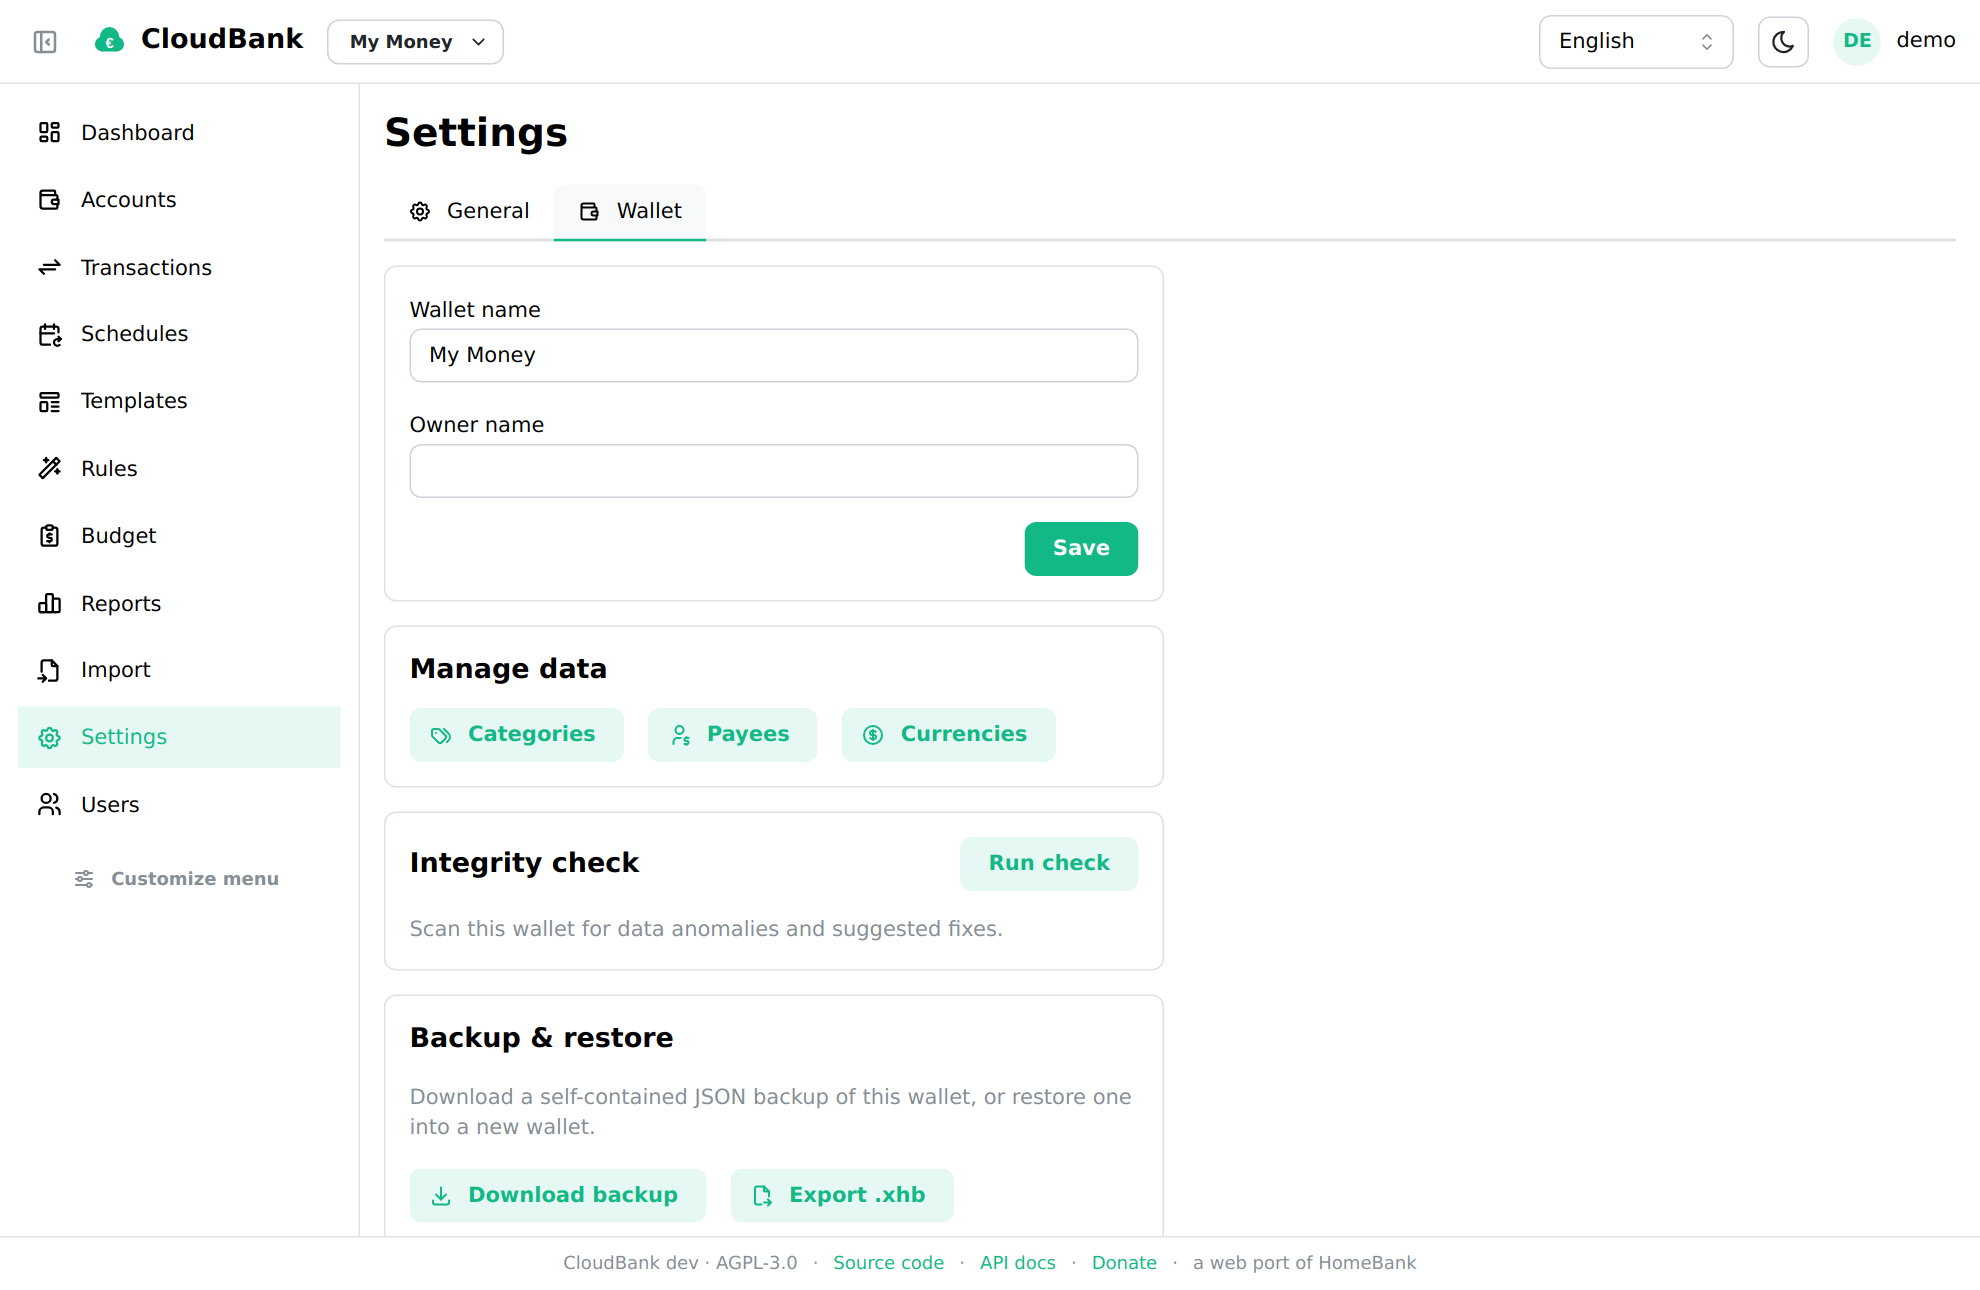
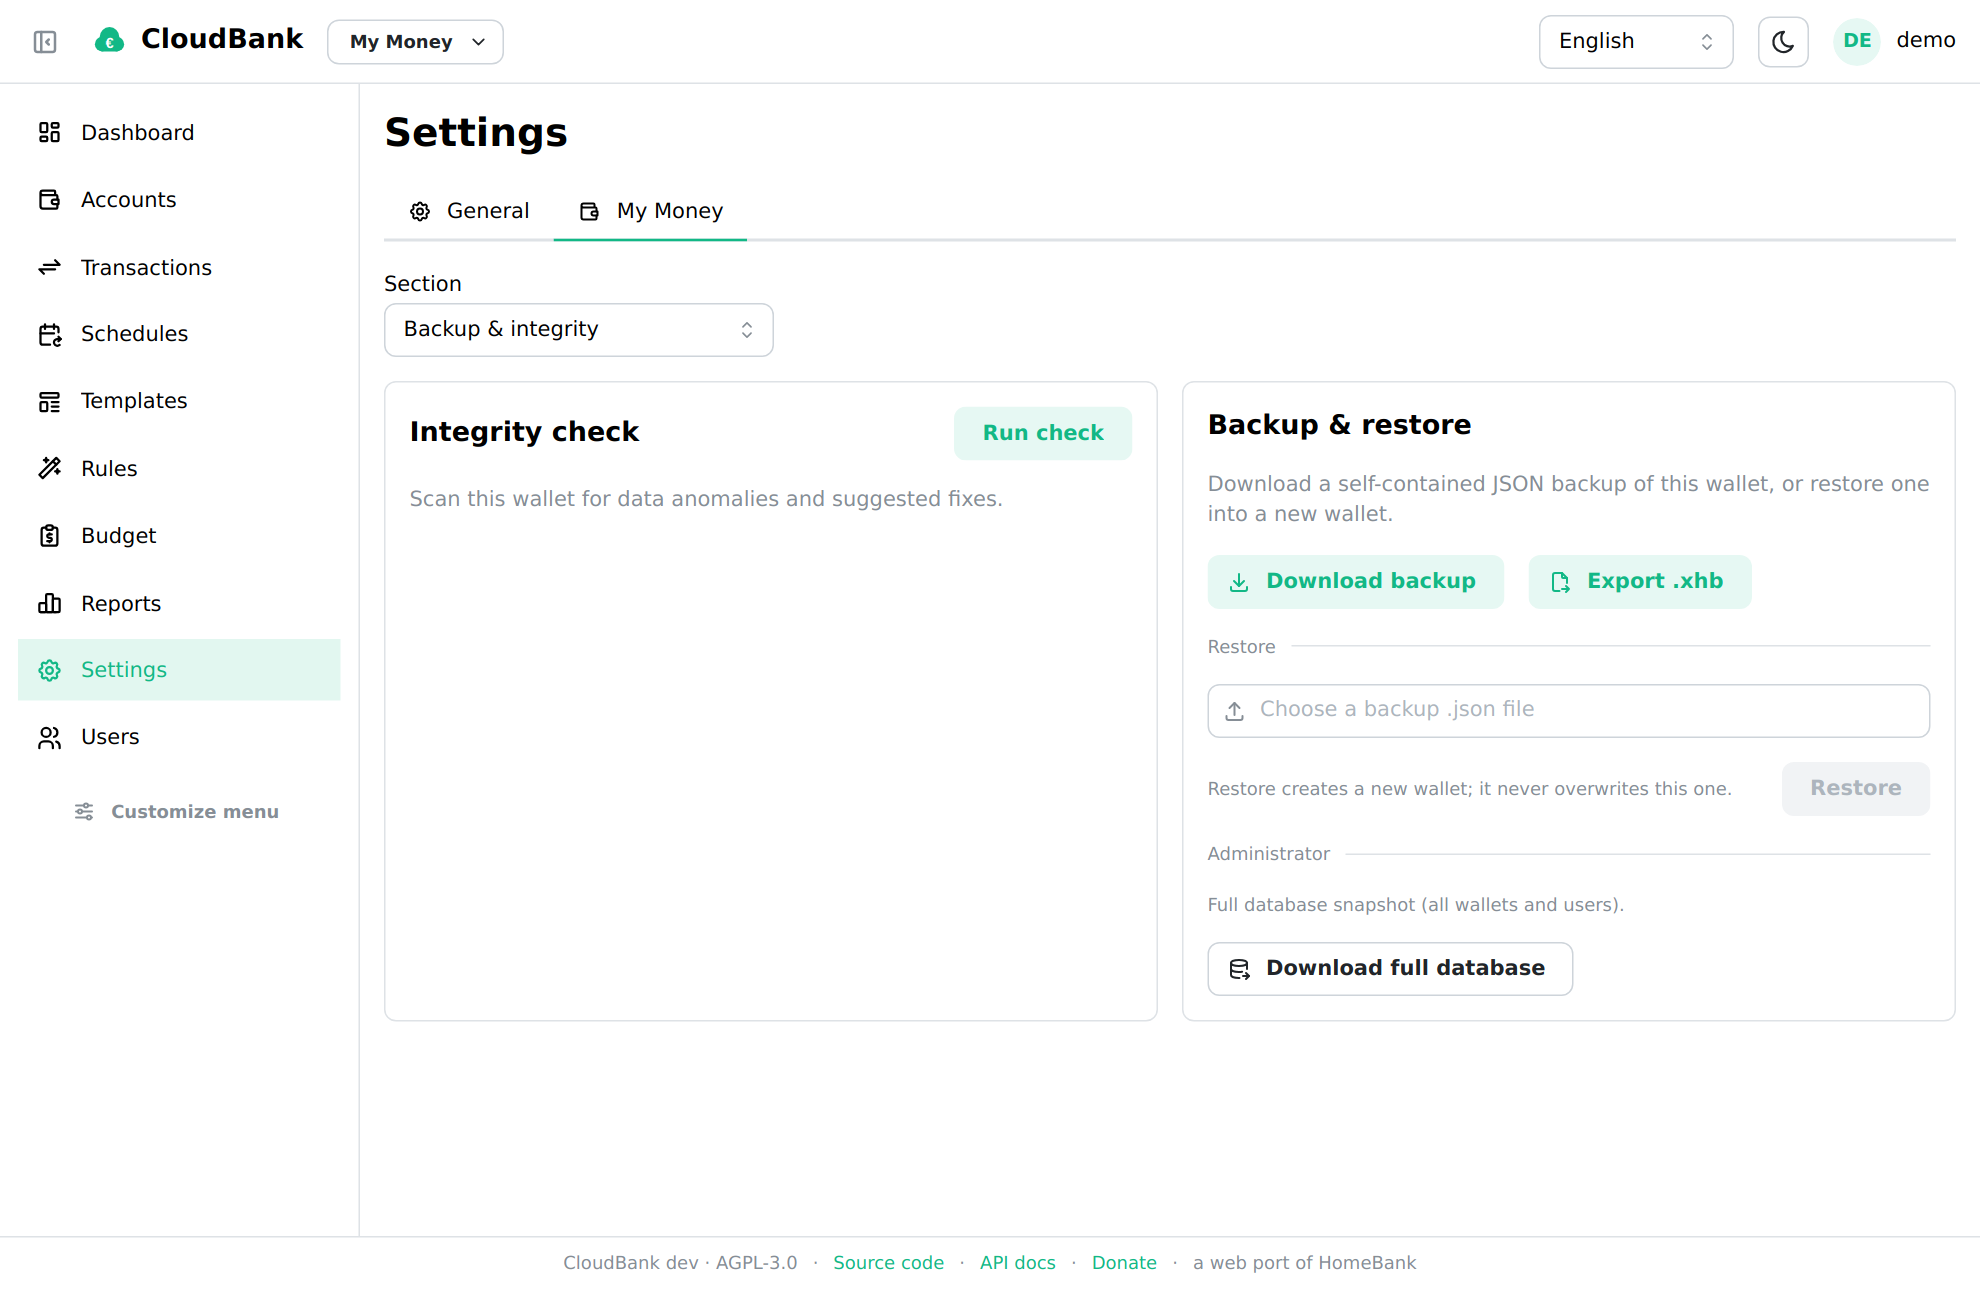
docs: refresh for Round 4 (dashboard parity, balances, scheduler, settings)
Update the documentation to cover the Round 4 changes:

- CHANGELOG: record the HomeBank-style dashboard (account + Add modal,
  percentage donut, Recurring/Future/Reminders), today + projected future
  account balances, the schedules amount column, the register hide-future
  toggle, the per-wallet "pre-register N months ahead" scheduler setting,
  double-click edit on every grid, the Import-into-Settings move and
  wallet-named grouped settings tab, full-width pages, and the first-click
  theme toggle / chart text / balance / quick-add fixes.
- README: mention the future-transactions toggle, schedule amount and
  pre-registration, today/future balances, and the HomeBank-style dashboard.
- migrate-from-homebank: Import now lives under Settings -> Wallet -> Import.
- Regenerate the docs/img screenshots from the current app, and fix the
  screenshot harness's export step to deep-link to the wallet backup section
  (the wallet settings tab is now titled after the wallet).

Claude-Session: https://claude.ai/code/session_01XDMnoUVHPcyZJ5bbJd9cxv

diff --git a/CHANGELOG.md b/CHANGELOG.md
@@ -13,6 +13,10 @@ and **onboarding/polish**.
 
 - **Customizable dashboard** — drag to reorder widgets, resize them (full / half /
   third width) and show or hide them; the layout persists per user.
+- **HomeBank-style dashboard** — pick an account and **Add** opens the full
+  transaction modal; the spending donut shows **percentages**; the income/expense
+  chart is wider; and the Upcoming panel is split into **Recurring / Future /
+  Reminders** tabs, each with post / skip / edit actions.
 - **Themes** — an **accent-colour picker** alongside light / dark / auto; the
   light/dark toggle now persists as a user setting (survives a refresh).
 - **Collapsible sidebar** (icon rail) and **pinnable, reorderable navigation**
@@ -25,21 +29,35 @@ and **onboarding/polish**.
   a zero line) with a selectable period.
 - **Smart amount entry** (HomeBank style) — `12.40` and `12,40` are both read as
   decimals; a per-user preference, on by default.
-- **Double-click a register row** to open it for editing.
+- **Double-click any grid row** — register, budget, currencies and the other
+  management grids — to open it for editing.
 - A **first-login tutorial** (coachmark tour) — dismissable, shown once per user,
   and restartable from Settings.
 - **Brand logo/icon** beside the app name and as the favicon.
 - A footer **donation** link (PayPal) and a **HomeBank** credit link.
-- **Quick-add** a transaction from the dashboard, with a richer Upcoming panel.
-- An **animated landing site** (Astro) published to GitHub Pages.
+- An **animated landing site** (Astro) published to GitHub Pages, now featuring
+  real app screenshots and a mouse-reactive background.
 - CI: a weekly **HomeBank version watch** that opens a compatibility-review issue
   when a newer HomeBank release appears.
+- The **Schedules** grid now shows each scheduled transaction's **amount**.
+- **Accounts** show both today's balance and a separate **projected future
+  balance** (initial balance plus all dated transactions, including future ones).
+- A **show / hide future transactions** toggle in the register's filter bar.
+- A per-wallet setting to **pre-register scheduled transactions up to N months
+  ahead** (HomeBank style, up to 3 months), used by the auto-posting scheduler.
 
 ### Changed
 
 - The **wallet switcher** now lists only wallets + "Create wallet"; categories,
   payees, currencies, integrity, backup/restore and `.xhb` export moved under
   **Settings → Wallet**.
+- **Import / export moved into Settings → Wallet** (it is wallet-scoped) and is
+  no longer a separate sidebar item; the old `/import` route redirects there.
+- The wallet **Settings tab is titled after the active wallet** and its sections
+  (general, import, backup, danger zone) are grouped behind a section selector so
+  they no longer overflow the page.
+- **Settings, Import and Preferences** pages now use the full page width instead
+  of a narrow centred column.
 - **Dates** are rendered everywhere in the user's configured format.
 - Documentation now states parity with **HomeBank** (no fixed version), so it
   tracks current and future HomeBank releases.
@@ -49,6 +67,13 @@ and **onboarding/polish**.
 - Reports: the **Statistics** pie is larger with a side legend, and the **Trend**
   and **Balance** charts render immediately instead of appearing blank until a
   control is changed.
+- The **theme toggle** now switches on the **first click** (previously the first
+  click was a no-op when the system theme resolved to "auto").
+- **Chart legend and axis text** stay readable in both light and dark themes and
+  update correctly when toggling the theme (they no longer keep stale colours).
+- **Account balances** are computed from the account's transactions instead of
+  always showing the initial balance (often zero).
+- The dashboard **quick-add** row no longer stretches wider when a tag is added.
 - Italian status labels aligned with the HomeBank desktop wording.
 
 ## [1.0.0] - 2026-06-22

diff --git a/README.md b/README.md
@@ -46,10 +46,10 @@ CloudBank is an **independent, clean-room reimplementation**. It does not copy o
 
 ## Features
 
-- **Accounts** of every HomeBank type (bank, cash, checking, savings, credit card, liability, asset, investment) with per-account currency and the full set of flags.
+- **Accounts** of every HomeBank type (bank, cash, checking, savings, credit card, liability, asset, investment) with per-account currency and the full set of flags, showing both today's balance and a projected future balance.
 - **Transactions** with 12 payment types, the cleared/reconciled status lifecycle, category splits, free tags, internal transfers (including cross-currency), bulk edit and duplicate detection.
-- **Register** view with running balance, rich filtering, per-user column customization, a reconciliation workflow, and double-click-to-edit.
-- **Scheduled transactions** with automatic posting, **templates** (a dedicated management area, and offered when entering a transaction), and **assignment rules** for auto-categorization.
+- **Register** view with running balance, rich filtering (including a show/hide **future transactions** toggle), per-user column customization, a reconciliation workflow, and double-click-to-edit.
+- **Scheduled transactions** with automatic posting (optionally **pre-registering up to 3 months ahead**, HomeBank style), the recurring **amount** shown in the schedules grid, **templates** (a dedicated management area, and offered when entering a transaction), and **assignment rules** for auto-categorization.
 - **Budgets** and a full suite of **reports** (Statistics, Trend Time, Balance, Budget, Vehicle cost) with interactive charts and CSV/PNG export.
 - **Import**: HomeBank `.xhb`, QIF, OFX/QFX, CSV — with an import assistant. **Export**: HomeBank `.xhb`, QIF, CSV.
 - **Multi-currency** with manual and online (ECB / frankfurter.app) exchange rates.
@@ -57,7 +57,7 @@ CloudBank is an **independent, clean-room reimplementation**. It does not copy o
 
 ### Make it yours
 
-- **Customizable dashboard** — drag to reorder widgets, resize them (full / half / third width) and show or hide them.
+- **Customizable, HomeBank-style dashboard** — drag to reorder widgets, resize them (full / half / third width) and show or hide them; pick an account and **Add** to open the full entry modal, a percentage spending donut, and an Upcoming panel split into **Recurring / Future / Reminders** with post / skip / edit.
 - **Themes** — light / dark / auto plus an **accent-colour picker**; your choice persists per user across devices.
 - **Collapsible sidebar** and a **pinnable, reorderable navigation** ("More" group for the rest).
 - **Smart amount entry** (HomeBank style) — type `12.40` or `12,40` and both are read as decimals (toggleable per user).

diff --git a/docs/migrate-from-homebank.md b/docs/migrate-from-homebank.md
@@ -21,7 +21,8 @@ use **File → Save as…** in HomeBank to write a fresh copy somewhere obvious.
 ## 2. Import it into CloudBank
 
 1. Log in to CloudBank.
-2. Go to **Import** in the sidebar (the **HomeBank file** tab).
+2. Go to **Settings → Wallet → Import** (the **HomeBank file** tab). Import is
+   wallet-scoped, so it lives in the active wallet's settings.
 3. Choose your `.xhb` file and click **Import**.
 4. CloudBank creates a **new wallet** from the file and shows a summary of how
    many of each entity were imported, plus any warnings. The import is
@@ -58,7 +59,8 @@ latest save — re-export from HomeBank and import again into a fresh wallet.
 
 If you're coming from another tool, CloudBank also imports **CSV** (the HomeBank
 CSV dialect and generic mapped CSV), **QIF**, and **OFX/QFX** from the same
-**Import** screen, with duplicate detection and optional rule application.
+**Settings → Wallet → Import** screen, with duplicate detection and optional rule
+application.
 
 ## Exporting back to HomeBank (`.xhb`)
 
